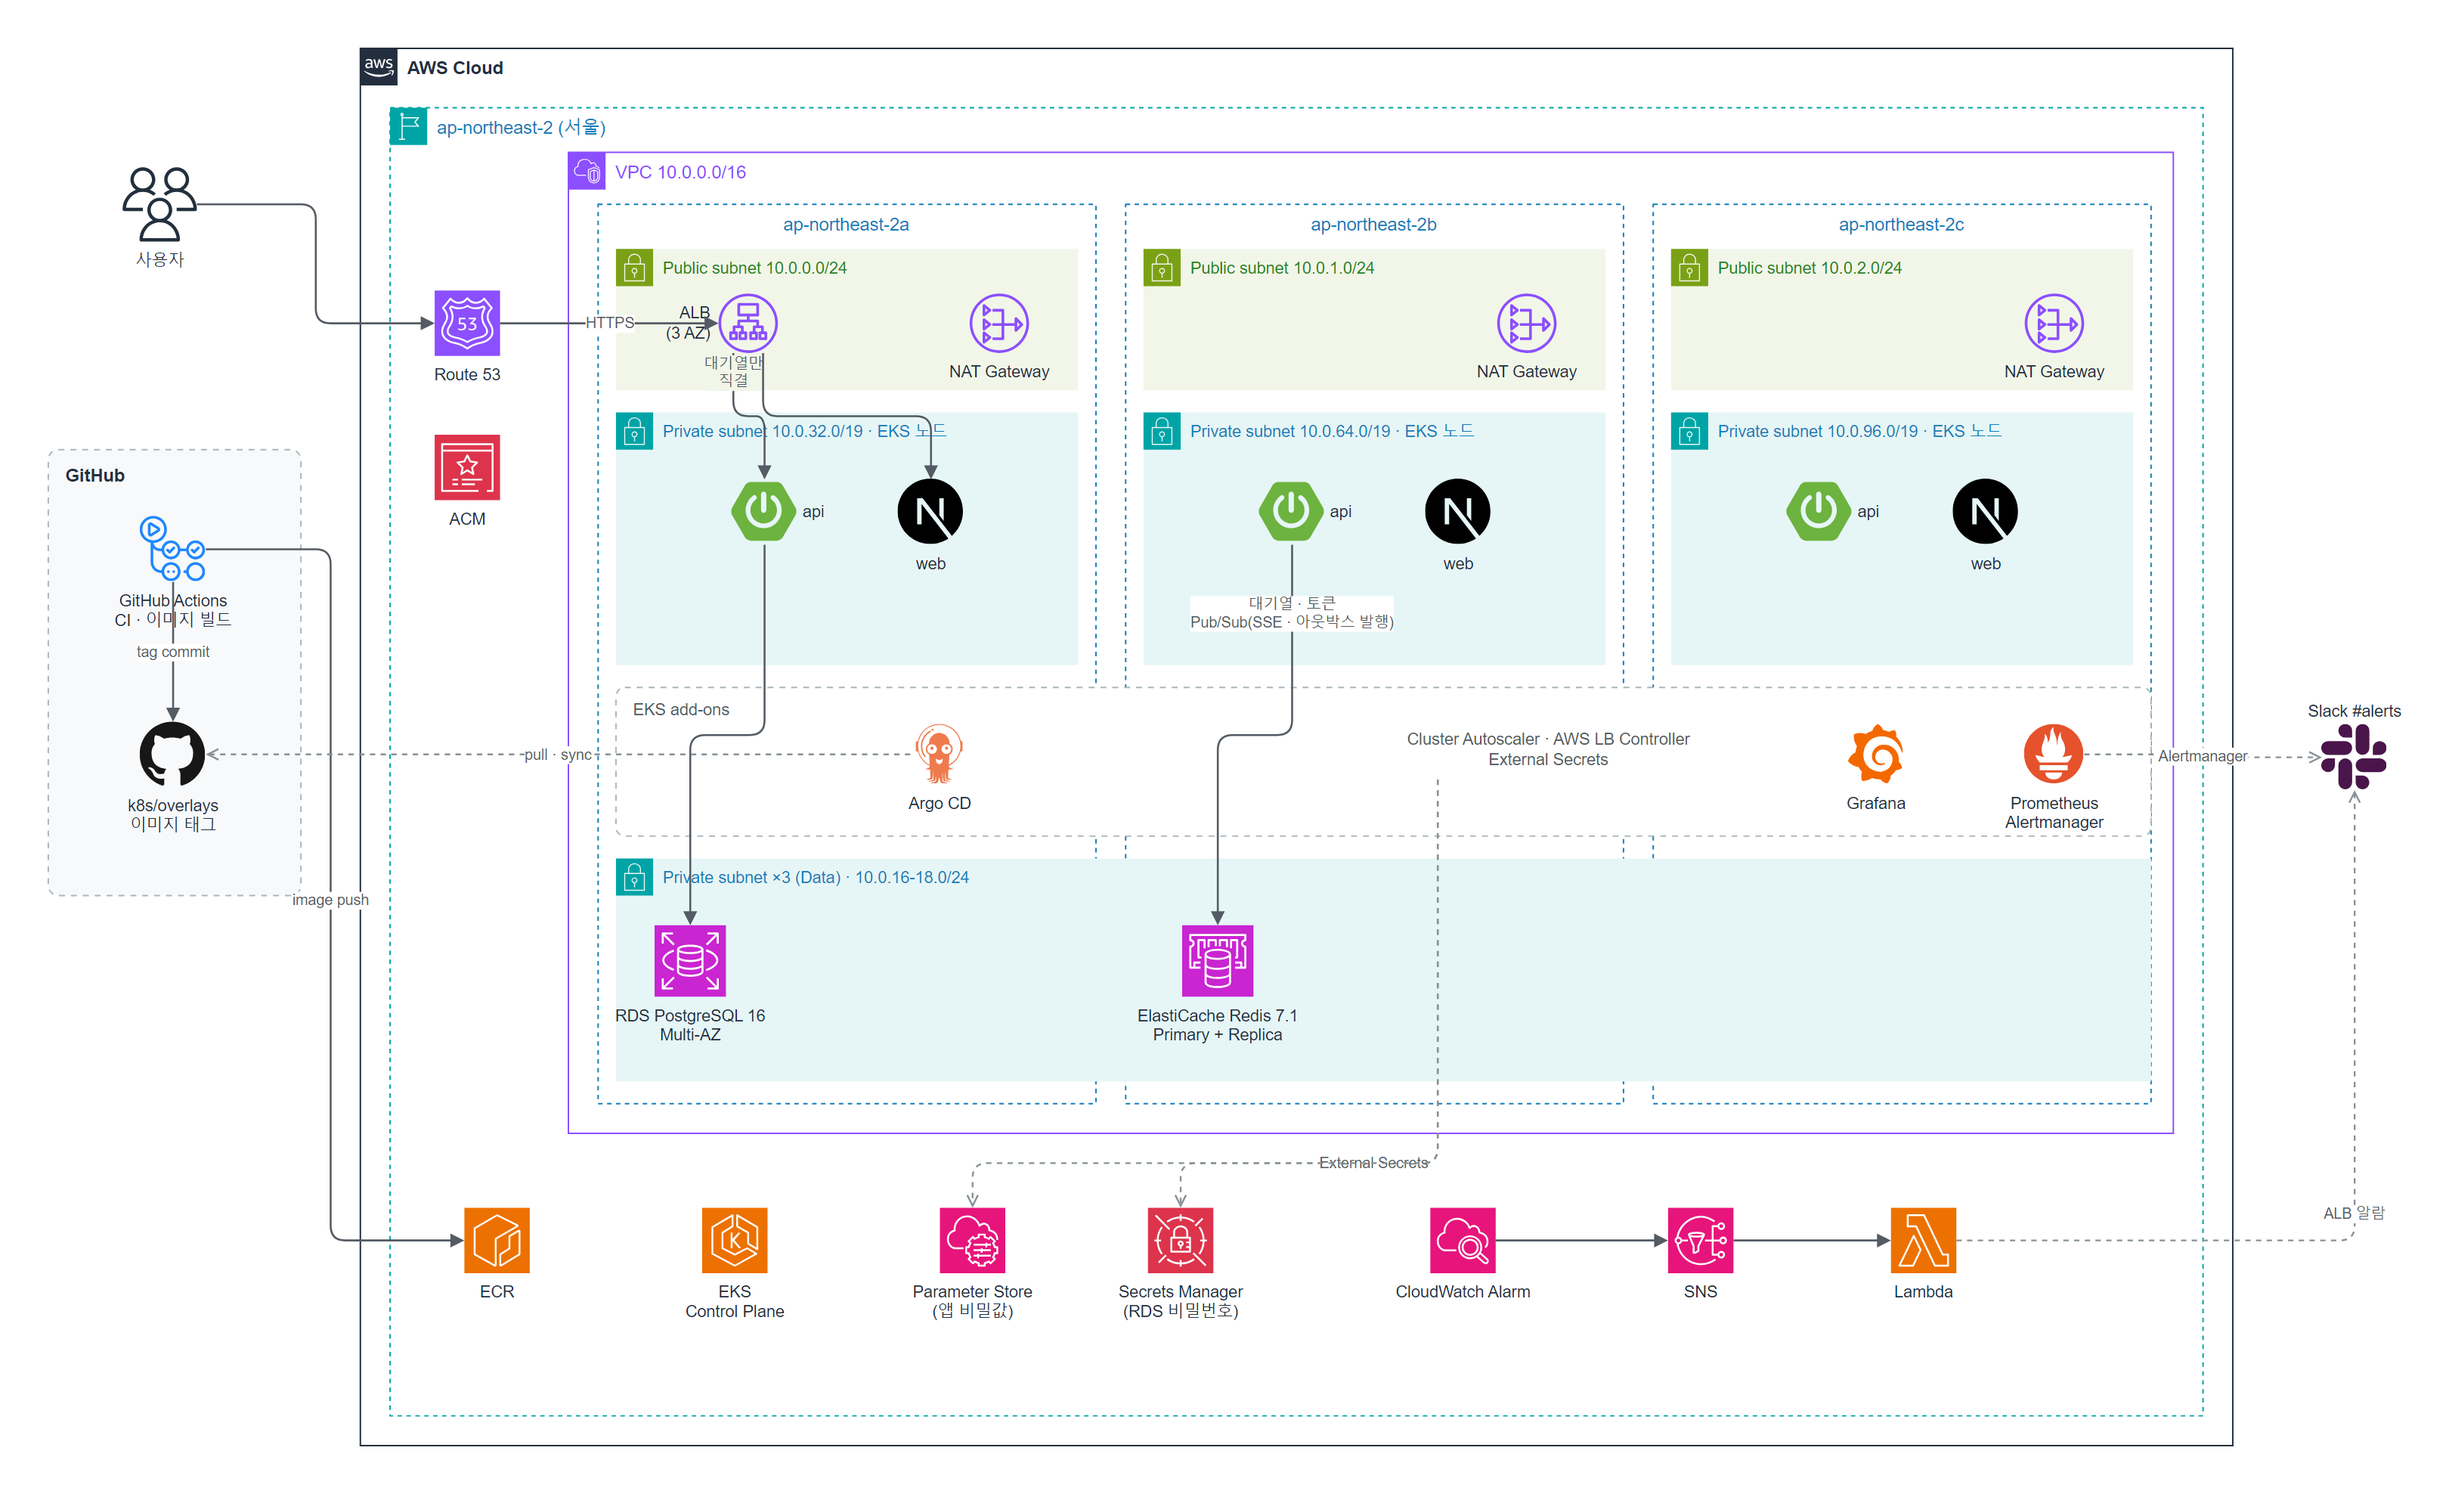
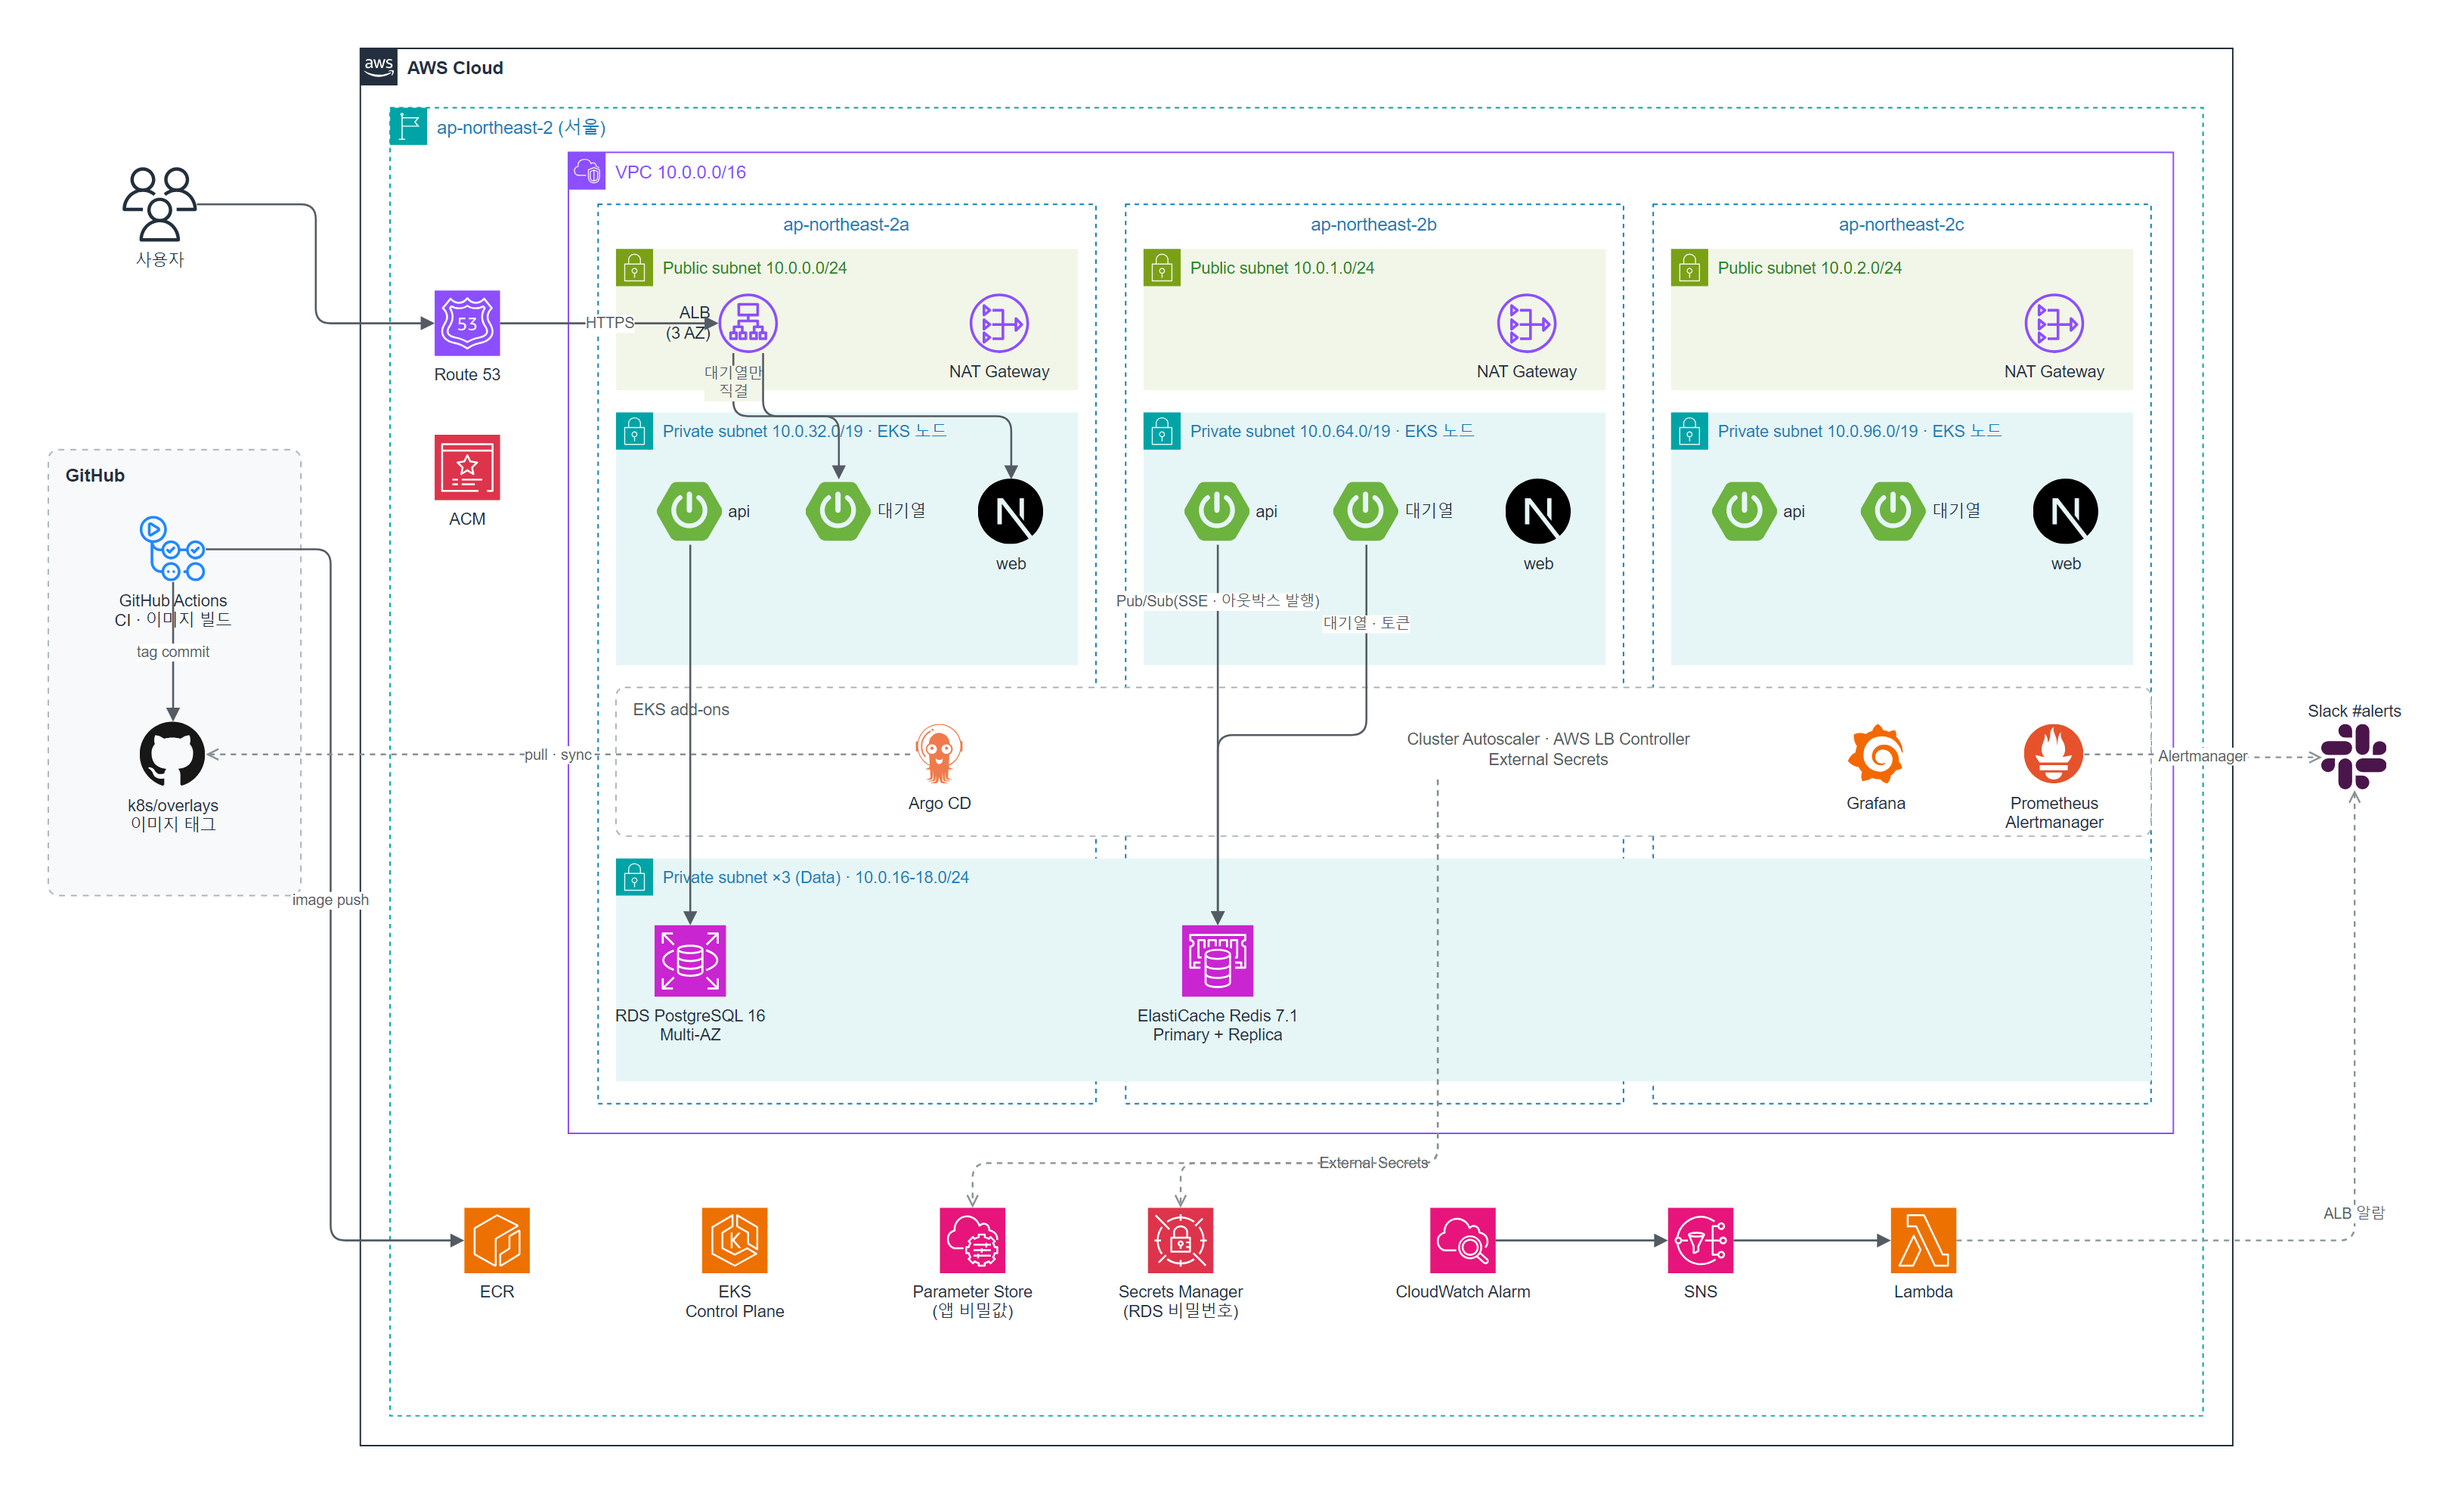
docs(readme): 운영 기본값 B 반영 — 인프라 그림에 대기열 전용 Pod·ALB 직결 대상, 대기열 화면 web 홉(TS-053)과 남은 범위, 노드-시간 수치의 run 명시

diff --git a/README.md b/README.md
@@ -4,7 +4,7 @@
 
 - **동시성 정합성** — 대기열·좌석·결제를 Redis Lua·조건부 `UPDATE`·멱등성 키로 원자화합니다.
 - **10만 명 / 10초 진입 검증** — AWS EKS에서 판정 3회(통합 구조), 운영 기본값인 대기열 분리 구조에서 1회 더, 서버가 실제로 받은 요청 기준으로 정원 초과·정합성 위반 0을 확인했습니다.
-- **자동 확장** — 부하에 따라 Pod(HPA)와 Node(Cluster Autoscaler)가 늘고 줄며, 공연 오픈 전 사전 확장은 Git으로 켜고 끕니다. 같은 판정 run에서 노드 9 고정 대비 노드-시간을 11~13% 덜 썼습니다(실측 노드 곡선으로 계산).
+- **자동 확장** — 부하에 따라 Pod(HPA)와 Node(Cluster Autoscaler)가 늘고 줄며, 공연 오픈 전 사전 확장은 Git으로 켜고 끕니다. 통합 구조의 10만 판정 run([IMP-031](docs/improvements/IMP-031-integrated-platform-100k.md))에서 노드 9 고정 대비 노드-시간을 11~13% 덜 썼습니다(실측 노드 곡선으로 계산).
 - **GitOps 배포 · 장애 주입** — Terraform(인프라)과 Argo CD(앱)로 소유를 나눠 EKS에 올리고, 배포·노드·DB·캐시에 실제로 장애를 넣어 거동을 측정합니다.
 
 ## 왜 만들었나
@@ -17,7 +17,7 @@ FlowTicket은 선착순 예매에서 발생하는 동시성 문제를 직접 다
 
 측정할 때는 잘 나온 결과만 남기지 않았습니다. 부하 발생기가 보냈다고 기록한 숫자보다 서버가 실제로 받은 요청을 기준으로 봤고, 기준에 미치지 못한 실행도 그대로 기록했습니다.
 
-최종적으로 10초 동안 10만 명이 진입하는 부하를 세 차례 반복해, 세 번 모두 100,000건의 진입 요청이 정상 처리되고 정원 초과와 정합성 위반이 한 건도 없음을 확인했습니다. 이 과정에서 부하에 따라 Kubernetes의 Pod와 Node가 실제로 늘었다가 줄어드는 것도 확인했습니다.
+최종적으로 10초 동안 10만 명이 진입하는 부하를 세 차례 반복해, 세 번 모두 100,000건의 진입 요청이 정상 처리되고 정원 초과와 정합성 위반이 한 건도 없음을 확인했습니다. 이 과정에서 부하에 따라 Kubernetes의 Pod와 Node가 실제로 늘었다가 줄어드는 것도 확인했습니다. 이후 예매 Pod를 대기열 폭증에서 떼어 내려고 대기열 전용 Deployment를 운영 기본값으로 바꿨고, 진입을 받는 Pod가 달라졌으므로 같은 기준으로 다시 재서 충족을 확인했습니다(1회).
 
 ## 검증 결과
 
@@ -78,7 +78,7 @@ FlowTicket은 선착순 예매에서 발생하는 동시성 문제를 직접 다
 
 - 로컬 개발은 Docker Compose로 PostgreSQL·Redis를 띄우고, 통합 환경(`infra/docker-compose.prod.yml`)은 여기에 API·web을 더합니다.
 - 클러스터 구성은 Kubernetes manifests와 Terraform을 사용하며, API는 health probe, graceful shutdown(`preStop`), HPA(분리 구조: api 3 고정·대기열 2~6) + Cluster Autoscaler, PDB 설정을 가지고, web은 사전 확장 때 API에 자리를 내주도록 낮은 PriorityClass를 둡니다.
-- 대기열 진입·상태 조회는 ALB가 Next.js를 거치지 않고 API로 바로 보냅니다([ADR-024](docs/decisions/ADR-024-queue-path-next-hop-bypass.md)).
+- 대기열 진입·상태 조회는 ALB가 Next.js를 거치지 않고 대기열 전용 Pod(api와 같은 이미지, 별도 Deployment)로 바로 보냅니다([ADR-024](docs/decisions/ADR-024-queue-path-next-hop-bypass.md) · [ADR-027](docs/decisions/ADR-027-queue-dedicated-deployment.md)). 예매하기 → 대기열 화면 이동도 web 서버 렌더 없이 정적 경로로 처리합니다([TS-053](docs/troubleshooting/TS-053-queue-nav-still-through-web.md)). 오픈 순간 공연 페이지의 재조회(창 포커스·새로고침)는 아직 web을 거치고, 10만 시험 범위 밖입니다.
 - 비용 때문에 클러스터는 시험 기간에만 올리고 평소에는 내려 둡니다. Terraform과 Argo CD로 다시 올릴 수 있습니다.
 - 비밀값은 환경변수와 External Secrets 경로로 주입하며 코드에 저장하지 않습니다.
 - 배포·운영 문서는 [docs/deployment](docs/deployment/_index.md)와 [infra](infra)에서 관리합니다.
